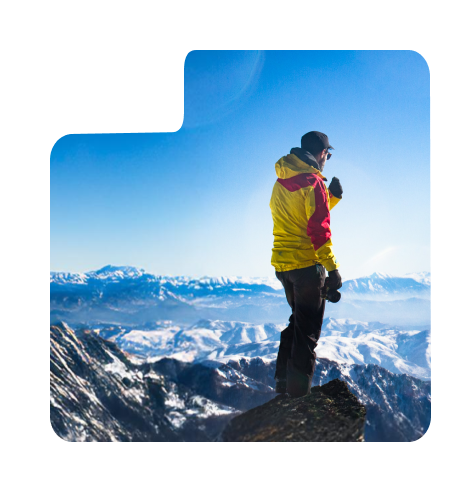
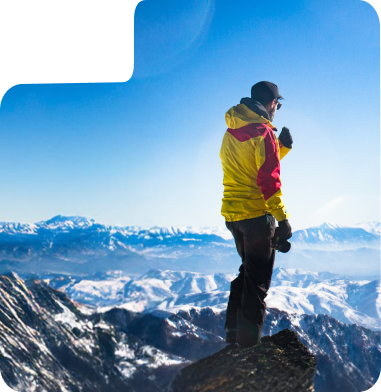
updates on media

diff --git a/src/app/homepage/containers/MediaSection/index.js b/src/app/homepage/containers/MediaSection/index.js
@@ -1,7 +1,7 @@
 import Section from "@/components/Section";
 import React from "react";
 
-// Component for the text and image section at the top
+// Component for the desktop/tablet text and image section at the top
 const MediaFeature = ({
   imgSrc,
   imgAlt,
@@ -10,9 +10,9 @@ const MediaFeature = ({
   featureTitle,
   description,
 }) => (
-  <div className="grid grid-cols-3 gap-[30px]">
+  <div className="hidden tablet:grid tablet:grid-cols-3 gap-[30px]">
     <div className="relative col-span-2">
-      <img src={imgSrc} alt={imgAlt} className="w-full h-auto  rounded-lg" />
+      <img src={imgSrc} alt={imgAlt} className="w-full h-auto rounded-lg" />
       <div className="absolute top-0 left-0">
         <h2 className="text-[45px] leading-[45px] text-white font-[900]">
           {title}
@@ -27,12 +27,40 @@ const MediaFeature = ({
   </div>
 );
 
+// Component for the mobile version
+const MediaFeatureMobile = ({
+  imgSrc,
+  imgAlt,
+  title,
+  magazine,
+  featureTitle,
+  description,
+}) => (
+  <div className="grid grid-cols-2 tablet:hidden gap-[10px] text-white">
+    <div className="relative">
+      <h2 className="text-[25px] leading-[25px]  font-[900] mb-4 text-nowrap">
+        {title}
+      </h2>
+      <p className="text-[10px] font-[500]">{magazine}</p>
+      <h2 className="text-[15px] font-[900] mb-2">{featureTitle}</h2>
+      <p className="text-[8px] font-[300]">{description}</p>
+    </div>
+    <div>
+      <img src={imgSrc} alt={imgAlt} className=" rounded-lg" />
+    </div>
+  </div>
+);
+
 // Component for individual media cards
 const MediaCard = ({ imgSrc, imgAlt, magazine, headline }) => (
   <div className="text-white">
-    <img src={imgSrc} alt={imgAlt} className="w-full h-auto  rounded-lg" />
-    <p className="text-[15px] font-[500] my-4">{magazine}</p>
-    <h5 className="text-[25px] font-[900]">{headline}</h5>
+    <img
+      src={imgSrc}
+      alt={imgAlt}
+      className="w-full h-[130px] tablet:h-auto rounded-lg"
+    />
+    <p className="text-[10px] tablet:text-[15px] font-[500] my-4">{magazine}</p>
+    <h5 className="text-[15px] tablet:text-[25px] font-[900]">{headline}</h5>
   </div>
 );
 
@@ -40,7 +68,7 @@ const MediaSection = () => {
   return (
     <div className="bg-[#070B36] pt-[93px] pb-[97px]">
       <Section className="flex flex-col h-full justify-between">
-        {/* Top Media Feature Section */}
+        {/* Top Media Feature Section for Desktop/Tablet */}
         <MediaFeature
           imgSrc="/assets/media/snow-magazine.png"
           imgAlt="Snow Magazine Logo"
@@ -50,8 +78,18 @@ const MediaSection = () => {
           description="The Accursed Mountains aren't on many skiers' radar. That could be about to change, thanks to a new backcountry skiing operation that's just opened in Kosovo."
         />
 
+        {/* Top Media Feature Section for Mobile */}
+        <MediaFeatureMobile
+          imgSrc="/assets/media/snow-magazine-phone.png"
+          imgAlt="Snow Magazine Logo"
+          title="LYNX IN MEDIA"
+          magazine="Snow Magazine"
+          featureTitle="The Wild Wild East: Cat-Skiing on the Edge of Europe"
+          description="The Accursed Mountains aren't on many skiers' radar. That could be about to change, thanks to a new backcountry skiing operation that's just opened in Kosovo."
+        />
+
         {/* Media Cards Section */}
-        <div className="grid grid-cols-3 gap-[30px] w-full mt-8">
+        <div className="grid grid-cols-2 tablet:grid-cols-3 gap-[10px] tablet:gap-[30px] w-full mt-8">
           <MediaCard
             imgSrc="/assets/media/financial-times.png"
             imgAlt="Financial Times"
@@ -64,12 +102,15 @@ const MediaSection = () => {
             magazine="Backdrop Journal"
             headline="FFS Pod with the Lynx Freeride Crew"
           />
-          <MediaCard
-            imgSrc="/assets/media/financial-times.png"
-            imgAlt="Condé Nast Traveller"
-            magazine="Condé Nast Traveller"
-            headline="The best ski resorts in Europe"
-          />
+          {/* Third card only visible on tablet and desktop */}
+          <div className="hidden tablet:block">
+            <MediaCard
+              imgSrc="/assets/media/financial-times.png"
+              imgAlt="Condé Nast Traveller"
+              magazine="Condé Nast Traveller"
+              headline="The best ski resorts in Europe"
+            />
+          </div>
         </div>
       </Section>
     </div>
